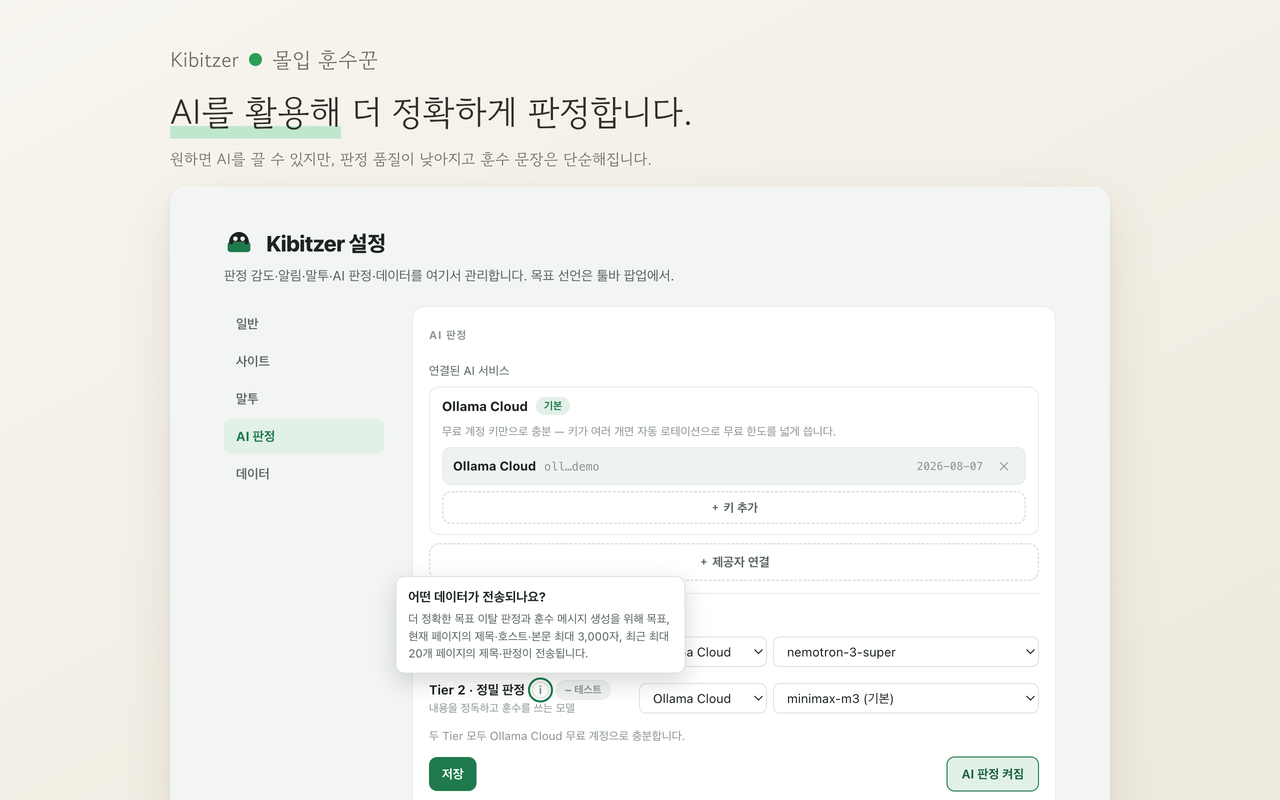
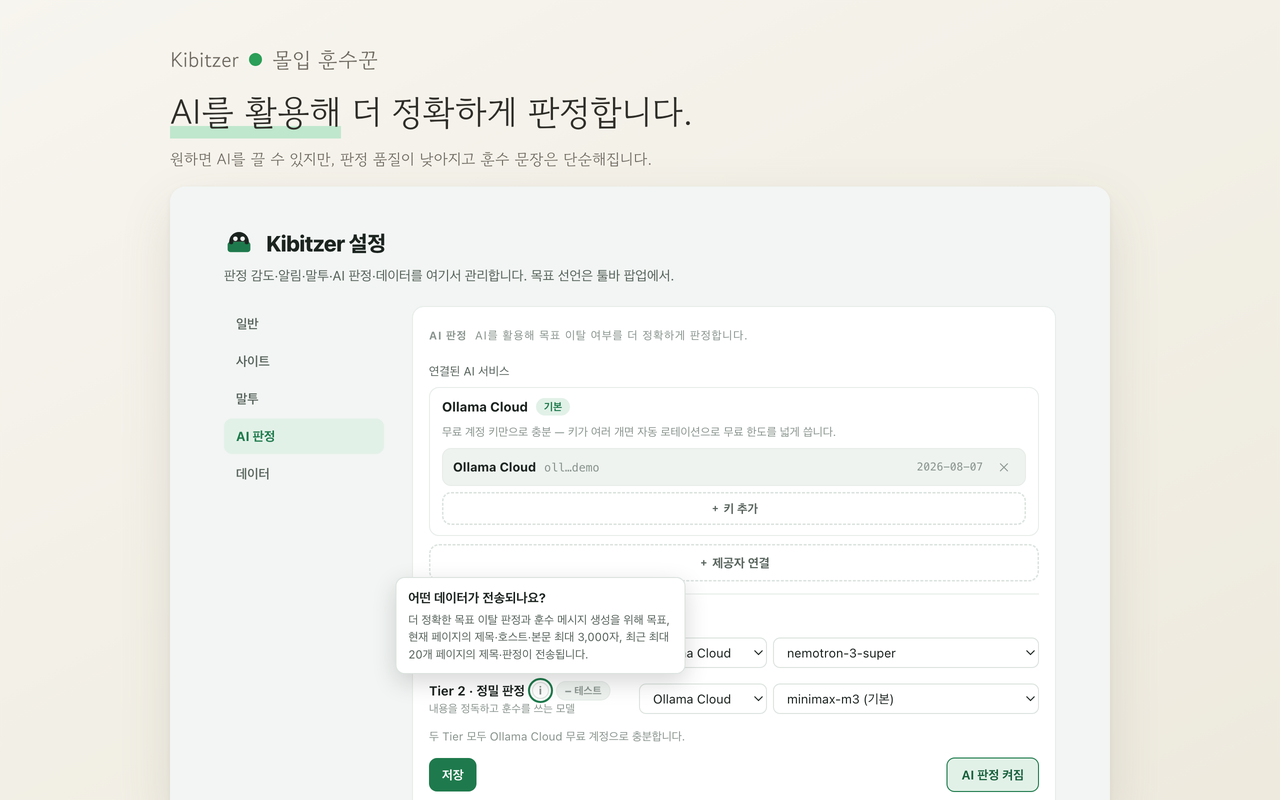
feat: add AI judgment heading description

diff --git a/apps/extension-next/src/options/options.html b/apps/extension-next/src/options/options.html
@@ -151,6 +151,8 @@
       .hidden { display: none !important; }
 
       /* AI 판정: 설정 카드 상단에 붙어 있는 상태 안내 */
+      .ai-title { display: flex; align-items: baseline; gap: 8px; flex-wrap: wrap; }
+      .ai-title .description { color: var(--page-ink-3); font-size: 11.5px; font-weight: 400; }
       .ai-alerts { position: sticky; top: 0; z-index: 3; margin: 2px -4px 8px; }
       .ai-alert { border-left: 3px solid var(--warn-line); border-radius: 0 9px 9px 0;
         padding: 9px 12px; font-size: 11.5px; background: var(--warn-soft); color: var(--warn-fg); }
@@ -421,7 +423,7 @@
       <!-- AI 판정 -->
       <section class="pane" id="pane-ai" role="tabpanel" aria-labelledby="tab-ai" data-pane="ai">
         <div class="card">
-          <h3>AI 판정</h3>
+          <h3 class="ai-title">AI 판정<span class="description">AI를 활용해 목표 이탈 여부를 더 정확하게 판정합니다.</span></h3>
           <div class="ai-alerts" id="ajAlerts" role="status" aria-live="polite"></div>
 
           <div class="psec">
